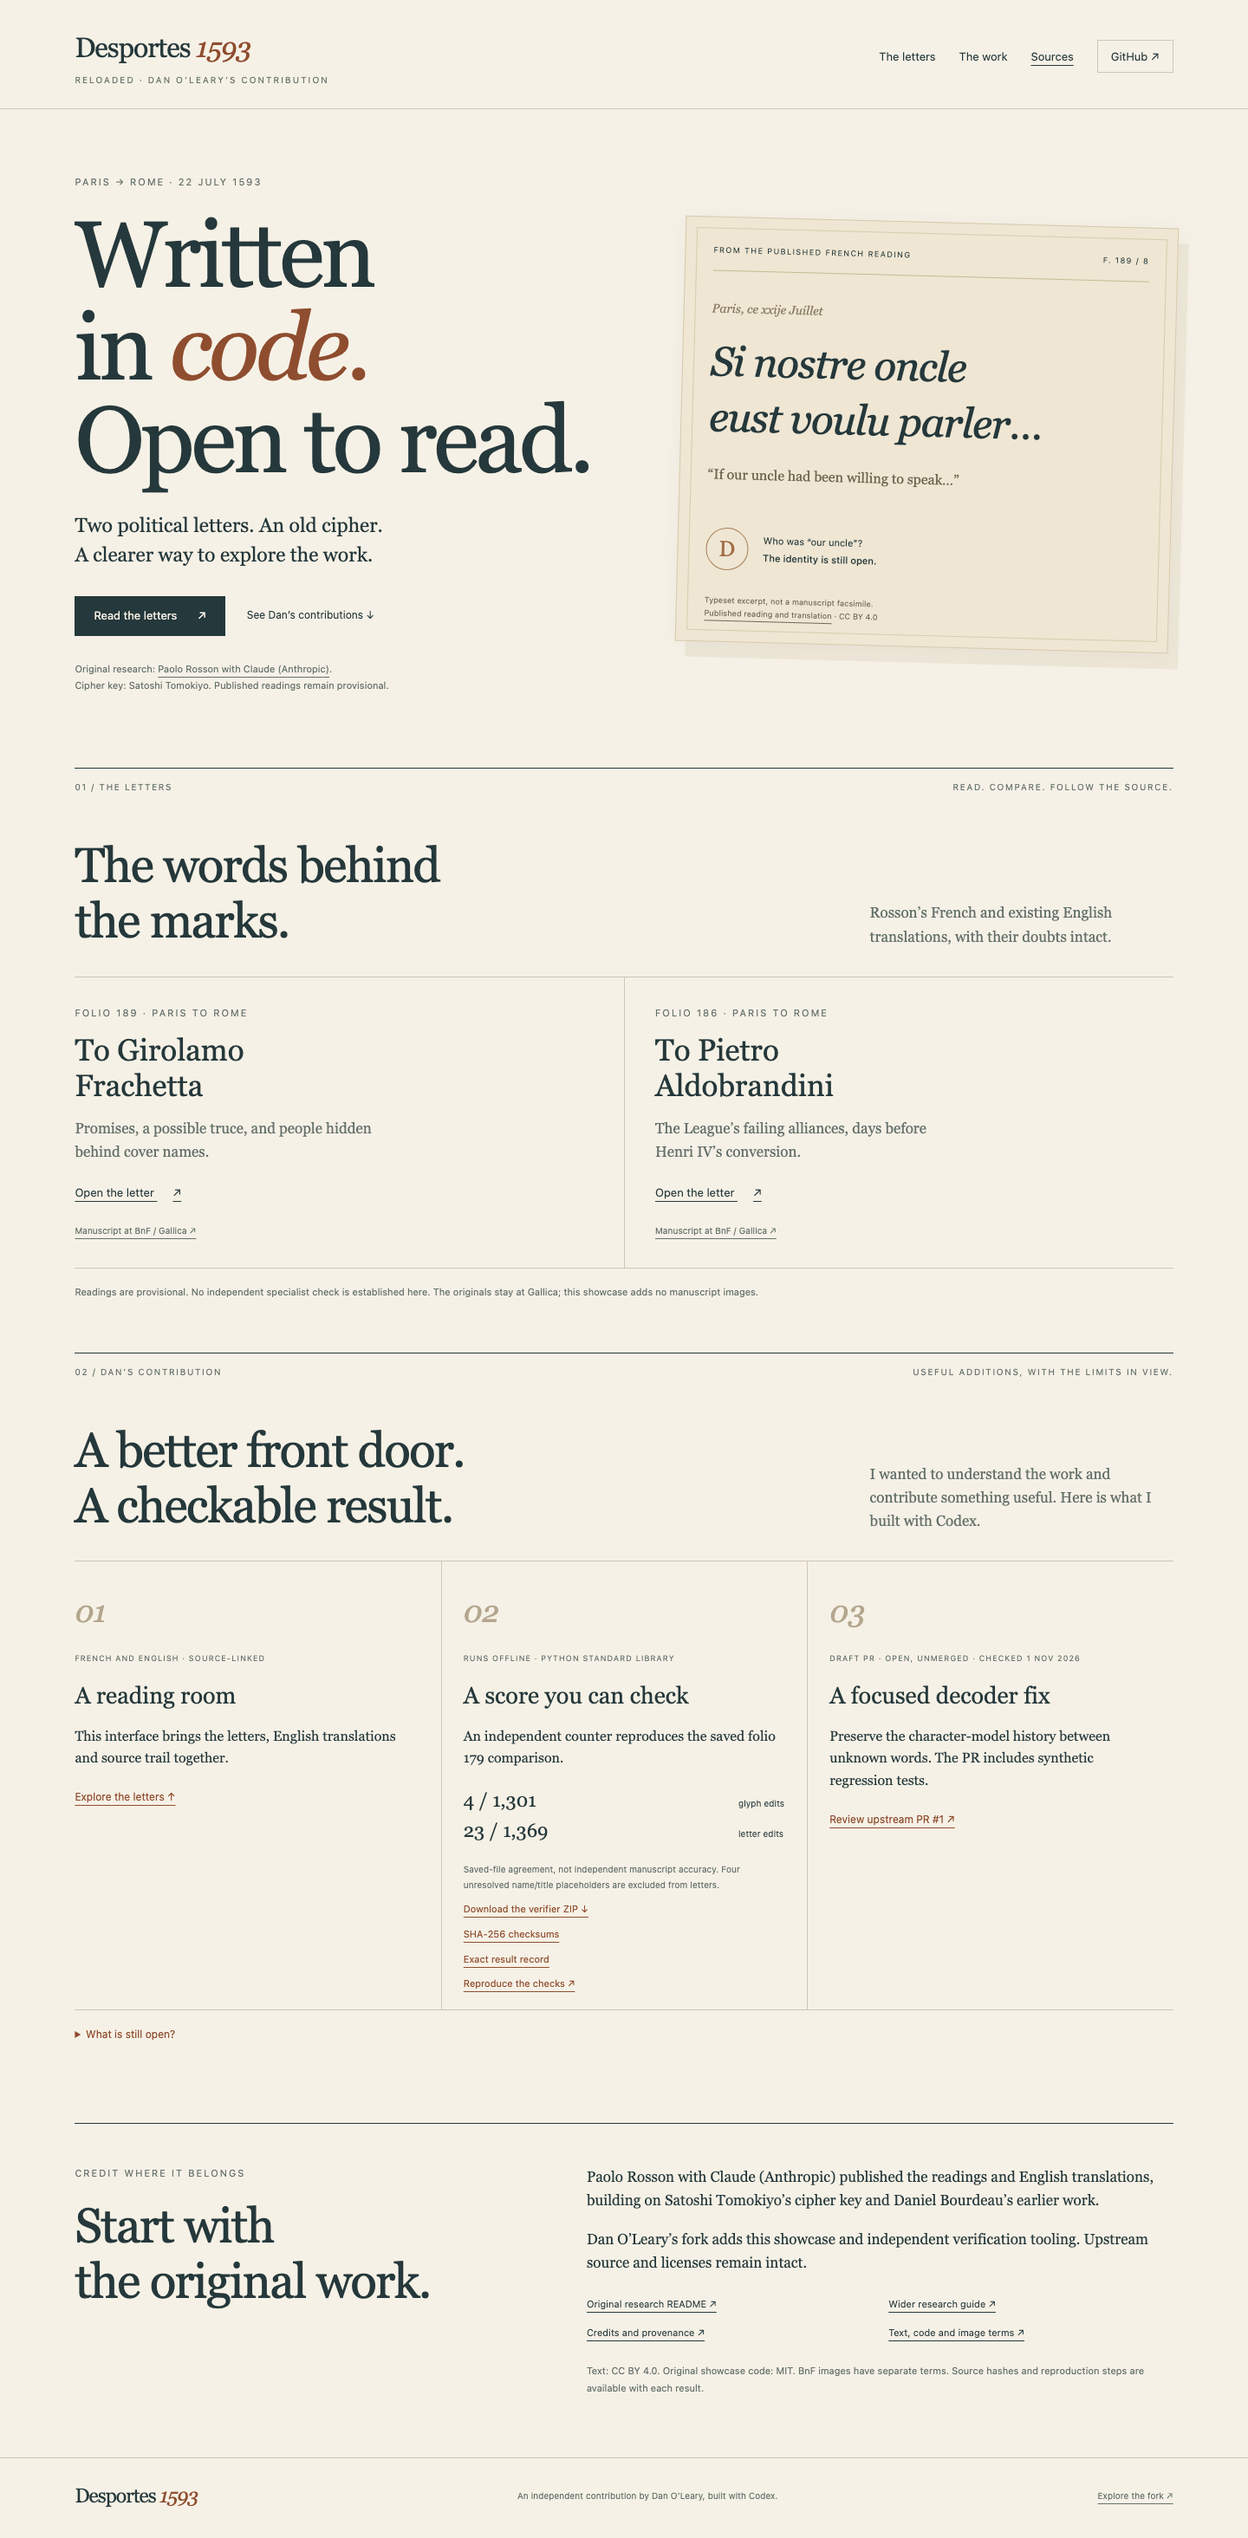
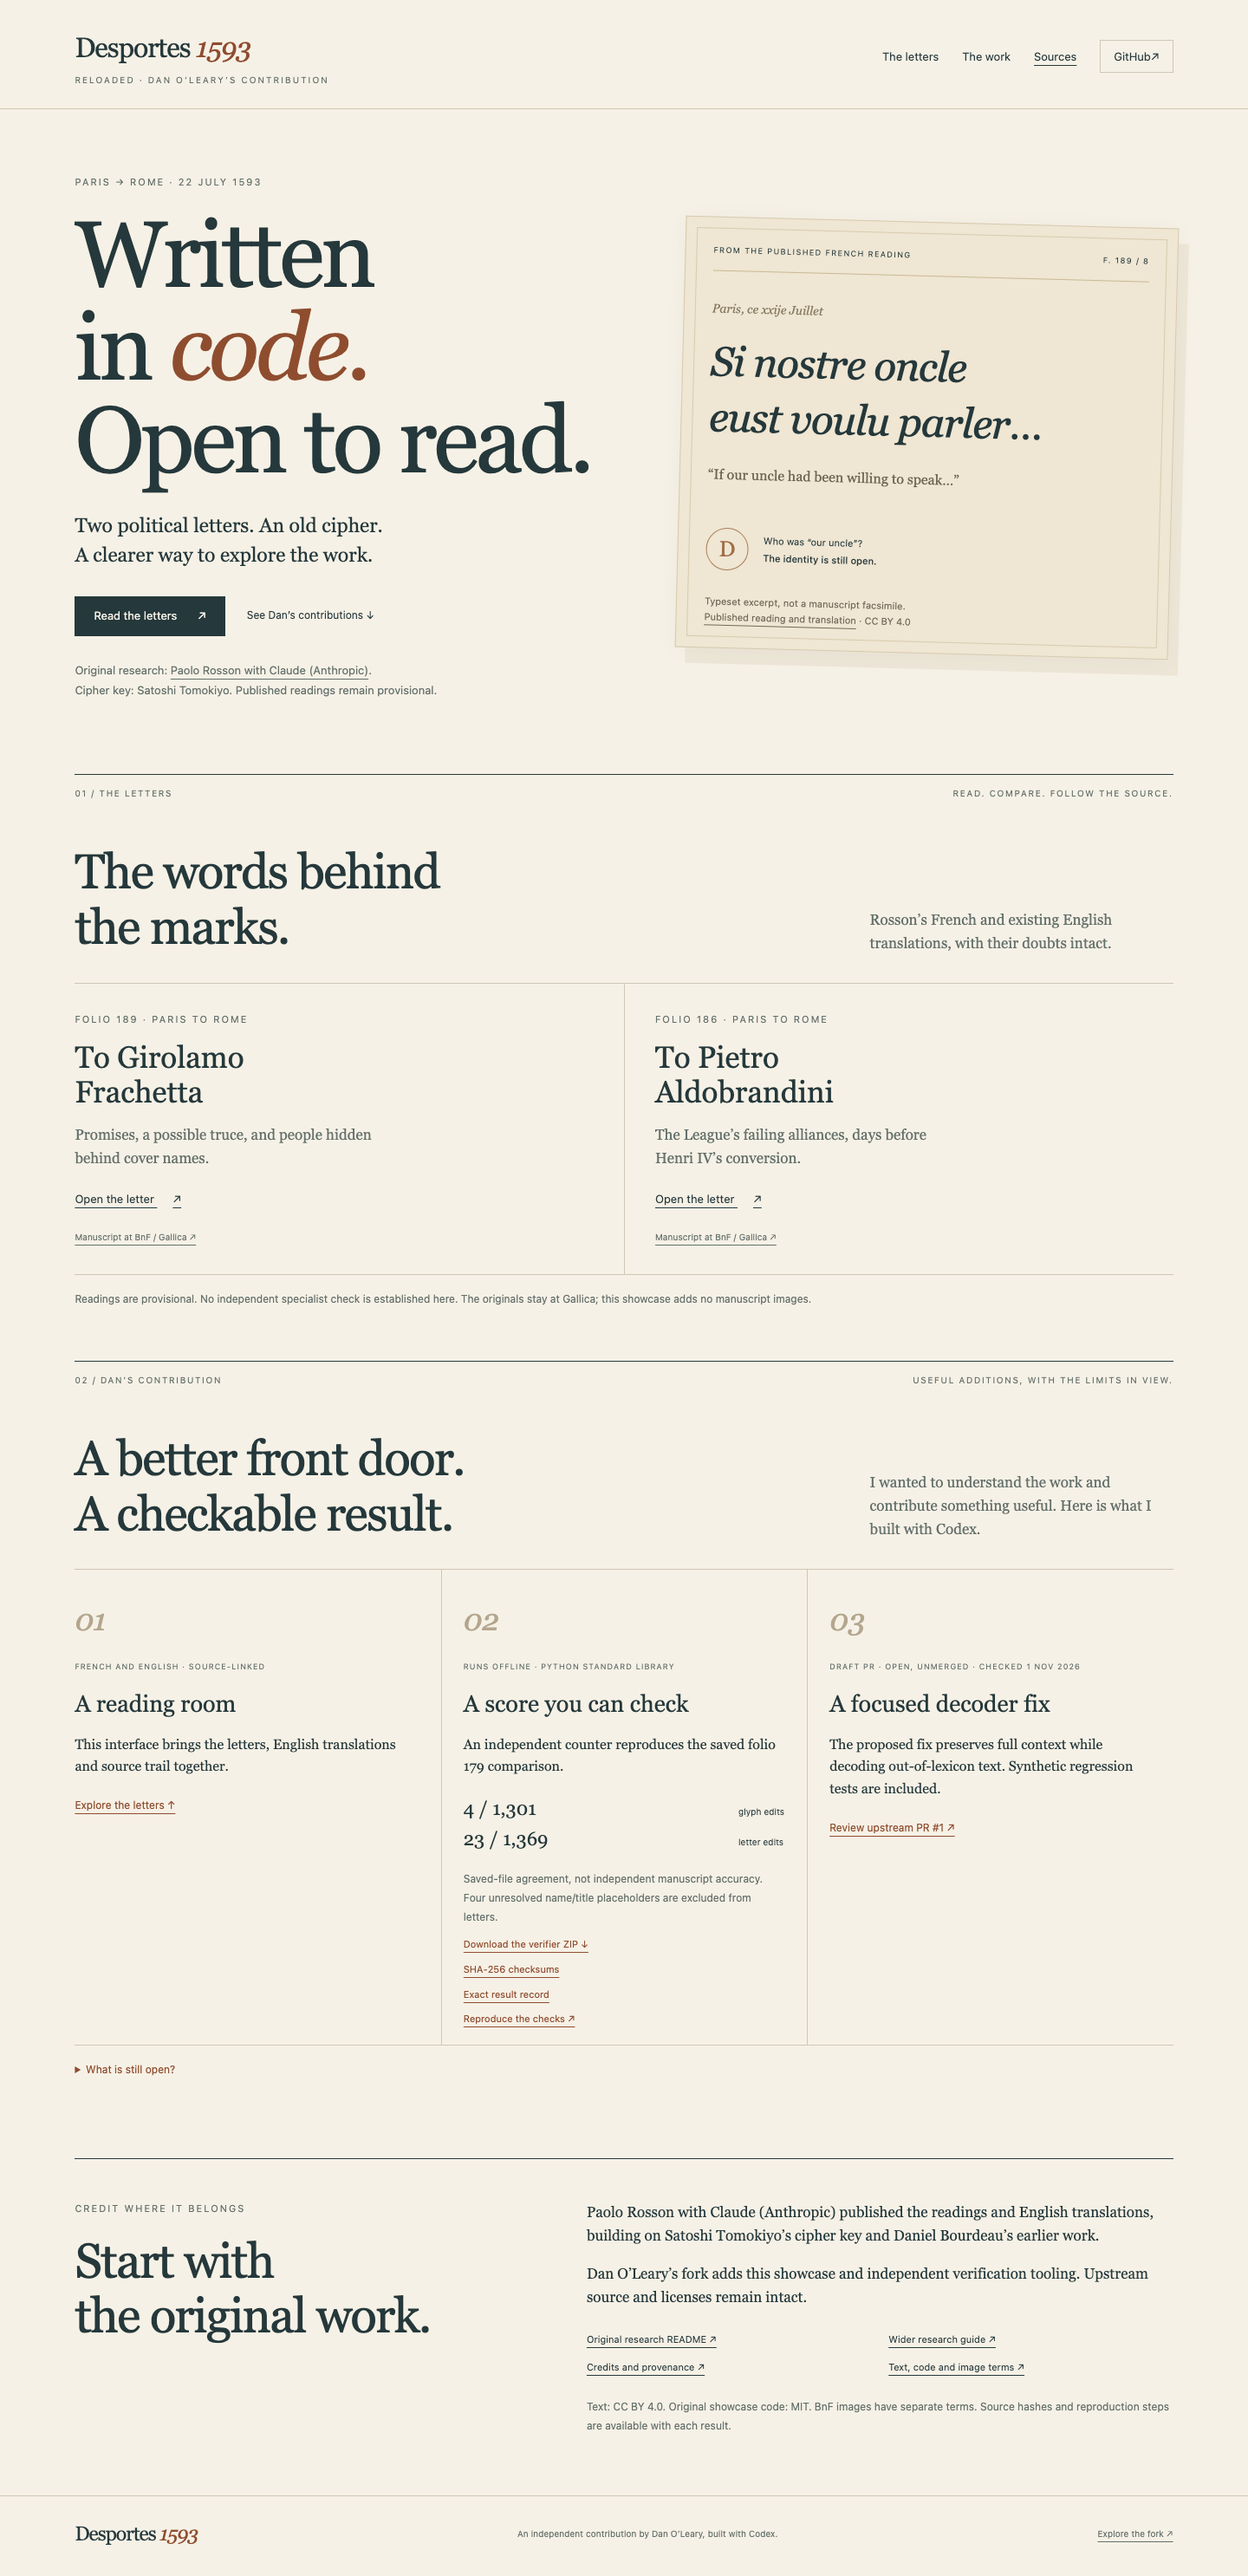
Bind public score evidence and improve showcase readability
Compare the result record against a fresh scorer run and exact source identities.
Clarify the proposed decoder fix, enlarge qualifications and credits, and improve
the mobile headline and screenshots after independent review.

diff --git a/showcase/index.html b/showcase/index.html
@@ -18,7 +18,7 @@
     <div class="chapter-rule"><span>01 / The letters</span><span>Read. Compare. Follow the source.</span></div>
     <section id="letters" class="letters" aria-labelledby="letters-heading"><div class="section-intro"><h2 id="letters-heading">The words behind<br>the marks.</h2><p>Rosson’s French and existing English translations, with their doubts intact.</p></div><div class="letter-cards"><article><p class="eyebrow">Folio 189 · Paris to Rome</p><h3>To Girolamo<br>Frachetta</h3><p>Promises, a possible truce, and people hidden behind cover names.</p><button class="read-letter" data-letter="f189">Open the letter <span aria-hidden="true">↗</span></button><a href="https://gallica.bnf.fr/ark:/12148/btv1b9060633d/f353.item">Manuscript at BnF / Gallica ↗</a></article><article><p class="eyebrow">Folio 186 · Paris to Rome</p><h3>To Pietro<br>Aldobrandini</h3><p>The League’s failing alliances, days before Henri IV’s conversion.</p><button class="read-letter" data-letter="f186">Open the letter <span aria-hidden="true">↗</span></button><a href="https://gallica.bnf.fr/ark:/12148/btv1b9060633d/f347.item">Manuscript at BnF / Gallica ↗</a></article></div><p class="small-note">Readings are provisional. No independent specialist check is established here. The originals stay at Gallica; this showcase adds no manuscript images.</p></section>
     <div class="chapter-rule"><span>02 / Dan’s contribution</span><span>Useful additions, with the limits in view.</span></div>
-    <section id="contributions" class="work" aria-labelledby="work-heading"><div class="section-intro"><h2 id="work-heading">A better front door.<br>A checkable result.</h2><p>I wanted to understand the work and contribute something useful. Here is what I built with Codex.</p></div><div class="work-grid"><article><span class="number">01</span><p class="status">French and English · source-linked</p><h3>A reading room</h3><p>This interface brings the letters, English translations and source trail together.</p><a href="#letters">Explore the letters ↑</a></article><article><span class="number">02</span><p class="status">Runs offline · Python standard library</p><h3>A score you can check</h3><p>An independent counter reproduces the saved folio 179 comparison.</p><div class="score-line"><strong>4 / 1,301</strong><span>glyph edits</span><strong>23 / 1,369</strong><span>letter edits</span></div><p class="scope">Saved-file agreement, not independent manuscript accuracy. Four unresolved name/title placeholders are excluded from letters.</p><div class="verification-links"><a href="downloads/desportes-saved-verifier.zip" download>Download the verifier ZIP ↓</a><a href="downloads/SHA256SUMS.txt">SHA-256 checksums</a><a href="evidence/saved-score.json">Exact result record</a><a href="VERIFICATION.md">Reproduce the checks ↗</a></div></article><article><span class="number">03</span><p class="status">Draft PR · open, unmerged · checked 1 Nov 2026</p><h3>A focused decoder fix</h3><p>Preserve the character-model history between unknown words. The PR includes synthetic regression tests.</p><a href="https://github.com/pangoleen/desportes-1593/pull/1">Review upstream PR #1 ↗</a></article></div><details class="evidence-detail"><summary>What is still open?</summary><p>Independent manuscript review, unresolved names, original pipeline artifacts and the full recognition run remain separate work. This fork does not claim a new decipherment or improved manuscript accuracy.</p><p>Desportes concerns the Catholic League’s political cipher in 1593. Separate preliminary Dead Sea Scroll glyph work has not deciphered Cryptic B and is not included here.</p><a href="../CONTRIBUTIONS.md">Contribution ledger and scope</a></details></section>
+    <section id="contributions" class="work" aria-labelledby="work-heading"><div class="section-intro"><h2 id="work-heading">A better front door.<br>A checkable result.</h2><p>I wanted to understand the work and contribute something useful. Here is what I built with Codex.</p></div><div class="work-grid"><article><span class="number">01</span><p class="status">French and English · source-linked</p><h3>A reading room</h3><p>This interface brings the letters, English translations and source trail together.</p><a href="#letters">Explore the letters ↑</a></article><article><span class="number">02</span><p class="status">Runs offline · Python standard library</p><h3>A score you can check</h3><p>An independent counter reproduces the saved folio 179 comparison.</p><div class="score-line"><strong>4 / 1,301</strong><span>glyph edits</span><strong>23 / 1,369</strong><span>letter edits</span></div><p class="scope">Saved-file agreement, not independent manuscript accuracy. Four unresolved name/title placeholders are excluded from letters.</p><div class="verification-links"><a href="downloads/desportes-saved-verifier.zip" download>Download the verifier ZIP ↓</a><a href="downloads/SHA256SUMS.txt">SHA-256 checksums</a><a href="evidence/saved-score.json">Exact result record</a><a href="VERIFICATION.md">Reproduce the checks ↗</a></div></article><article><span class="number">03</span><p class="status">Draft PR · open, unmerged · checked 1 Nov 2026</p><h3>A focused decoder fix</h3><p>The proposed fix preserves full context while decoding out-of-lexicon text. Synthetic regression tests are included.</p><a href="https://github.com/pangoleen/desportes-1593/pull/1">Review upstream PR #1 ↗</a></article></div><details class="evidence-detail"><summary>What is still open?</summary><p>Independent manuscript review, unresolved names, original pipeline artifacts and the full recognition run remain separate work. This fork does not claim a new decipherment or improved manuscript accuracy.</p><p>Desportes concerns the Catholic League’s political cipher in 1593. Separate preliminary Dead Sea Scroll glyph work has not deciphered Cryptic B and is not included here.</p><a href="../CONTRIBUTIONS.md">Contribution ledger and scope</a></details></section>
     <section id="sources" class="sources" aria-labelledby="sources-heading"><div><p class="eyebrow">Credit where it belongs</p><h2 id="sources-heading">Start with<br>the original work.</h2></div><div><p>Paolo Rosson with Claude (Anthropic) published the readings and English translations, building on Satoshi Tomokiyo’s cipher key and Daniel Bourdeau’s earlier work.</p><p>Dan O’Leary’s fork adds this showcase and independent verification tooling. Upstream source and licenses remain intact.</p><div class="source-links"><a href="../README_UPSTREAM.md">Original research README ↗</a><a href="https://github.com/pangoleen/cipher-readings/blob/main/GUIDE.md">Wider research guide ↗</a><a href="ATTRIBUTION.md">Credits and provenance ↗</a><a href="../LICENSE.md">Text, code and image terms ↗</a></div><p class="small-note">Text: CC BY 4.0. Original showcase code: MIT. BnF images have separate terms. Source hashes and reproduction steps are available with each result.</p></div></section>
   </main>
   <footer><a class="brand" href="#top">Desportes <span>1593</span></a><p>An independent contribution by Dan O’Leary, built with Codex.</p><a href="https://github.com/danieloleary/desportes-1593">Explore the fork ↗</a></footer>

diff --git a/showcase/style.css b/showcase/style.css
@@ -12,3 +12,8 @@ dialog{width:min(950px,94vw);max-height:90vh;padding:28px 32px;border:1px solid 
 @media(prefers-reduced-motion:reduce){html{scroll-behavior:auto}}
 
 .verification-links{display:grid;gap:10px;font:11px/1.7 var(--sans)}.verification-links a{color:var(--accent)}
+
+/* Review follow-up: keep substantive credit and qualifications readable. */
+.credit{font-size:13px}.folio figcaption{font-size:11px}.work-grid p.scope{font-size:12px}
+.reader-note{font-size:12px}.small-note{font-size:12px}nav a{display:inline-flex;align-items:center;min-height:32px}
+@media(max-width:650px){h1{font-size:clamp(50px,14vw,66px);letter-spacing:-2px}.hero{padding-top:28px;gap:28px}.credit{font-size:12px}.reader-note{font-size:12px}nav{font-size:12px}}

diff --git a/showcase/VERIFICATION.md b/showcase/VERIFICATION.md
@@ -57,8 +57,10 @@ node --test showcase/tests/source-integrity.test.cjs
 python3 -I -B showcase/package_verifier.py --check
 ```
 
-The five Node.js groups check exact reader text, source hashes, local links,
-runtime boundaries, and download/result bindings. Rebuild the archive with
+The six Node.js groups check exact reader text, source hashes, local links,
+runtime boundaries, download bindings, and a fresh scorer run. The last group
+compares published input/scorer/manifest hashes, run identity, result fields,
+and placeholder coverage against the actual source files and new calculation. Rebuild the archive with
 `python3 -I -B showcase/package_verifier.py`. It includes only thirteen explicit
 files, checks their inventory, and uses fixed ZIP metadata and uncompressed
 entries so the same source bytes reproduce the same archive hash.
